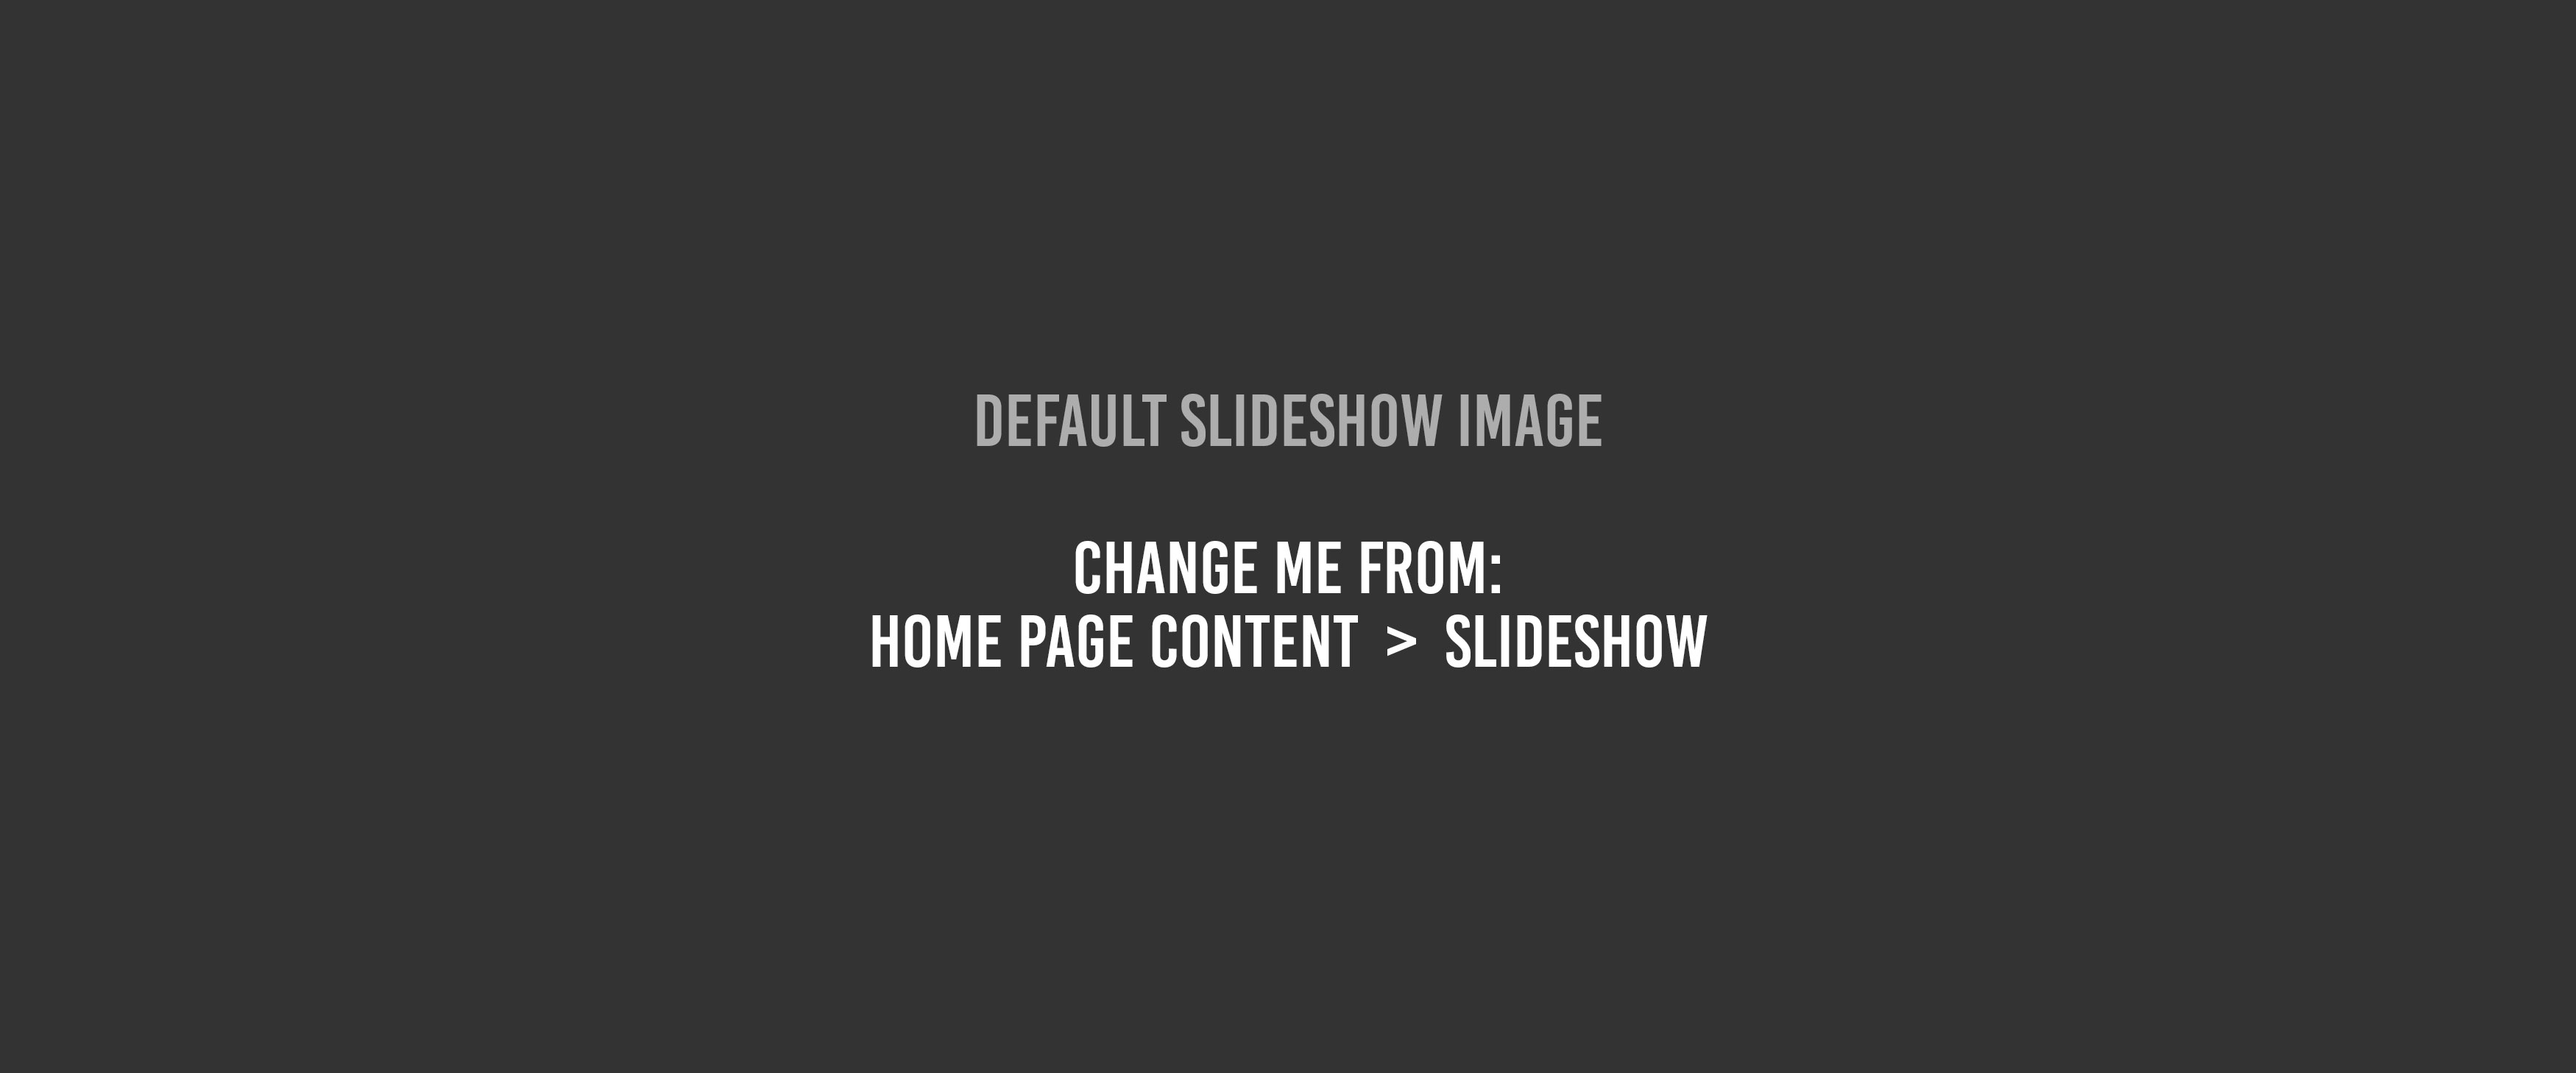
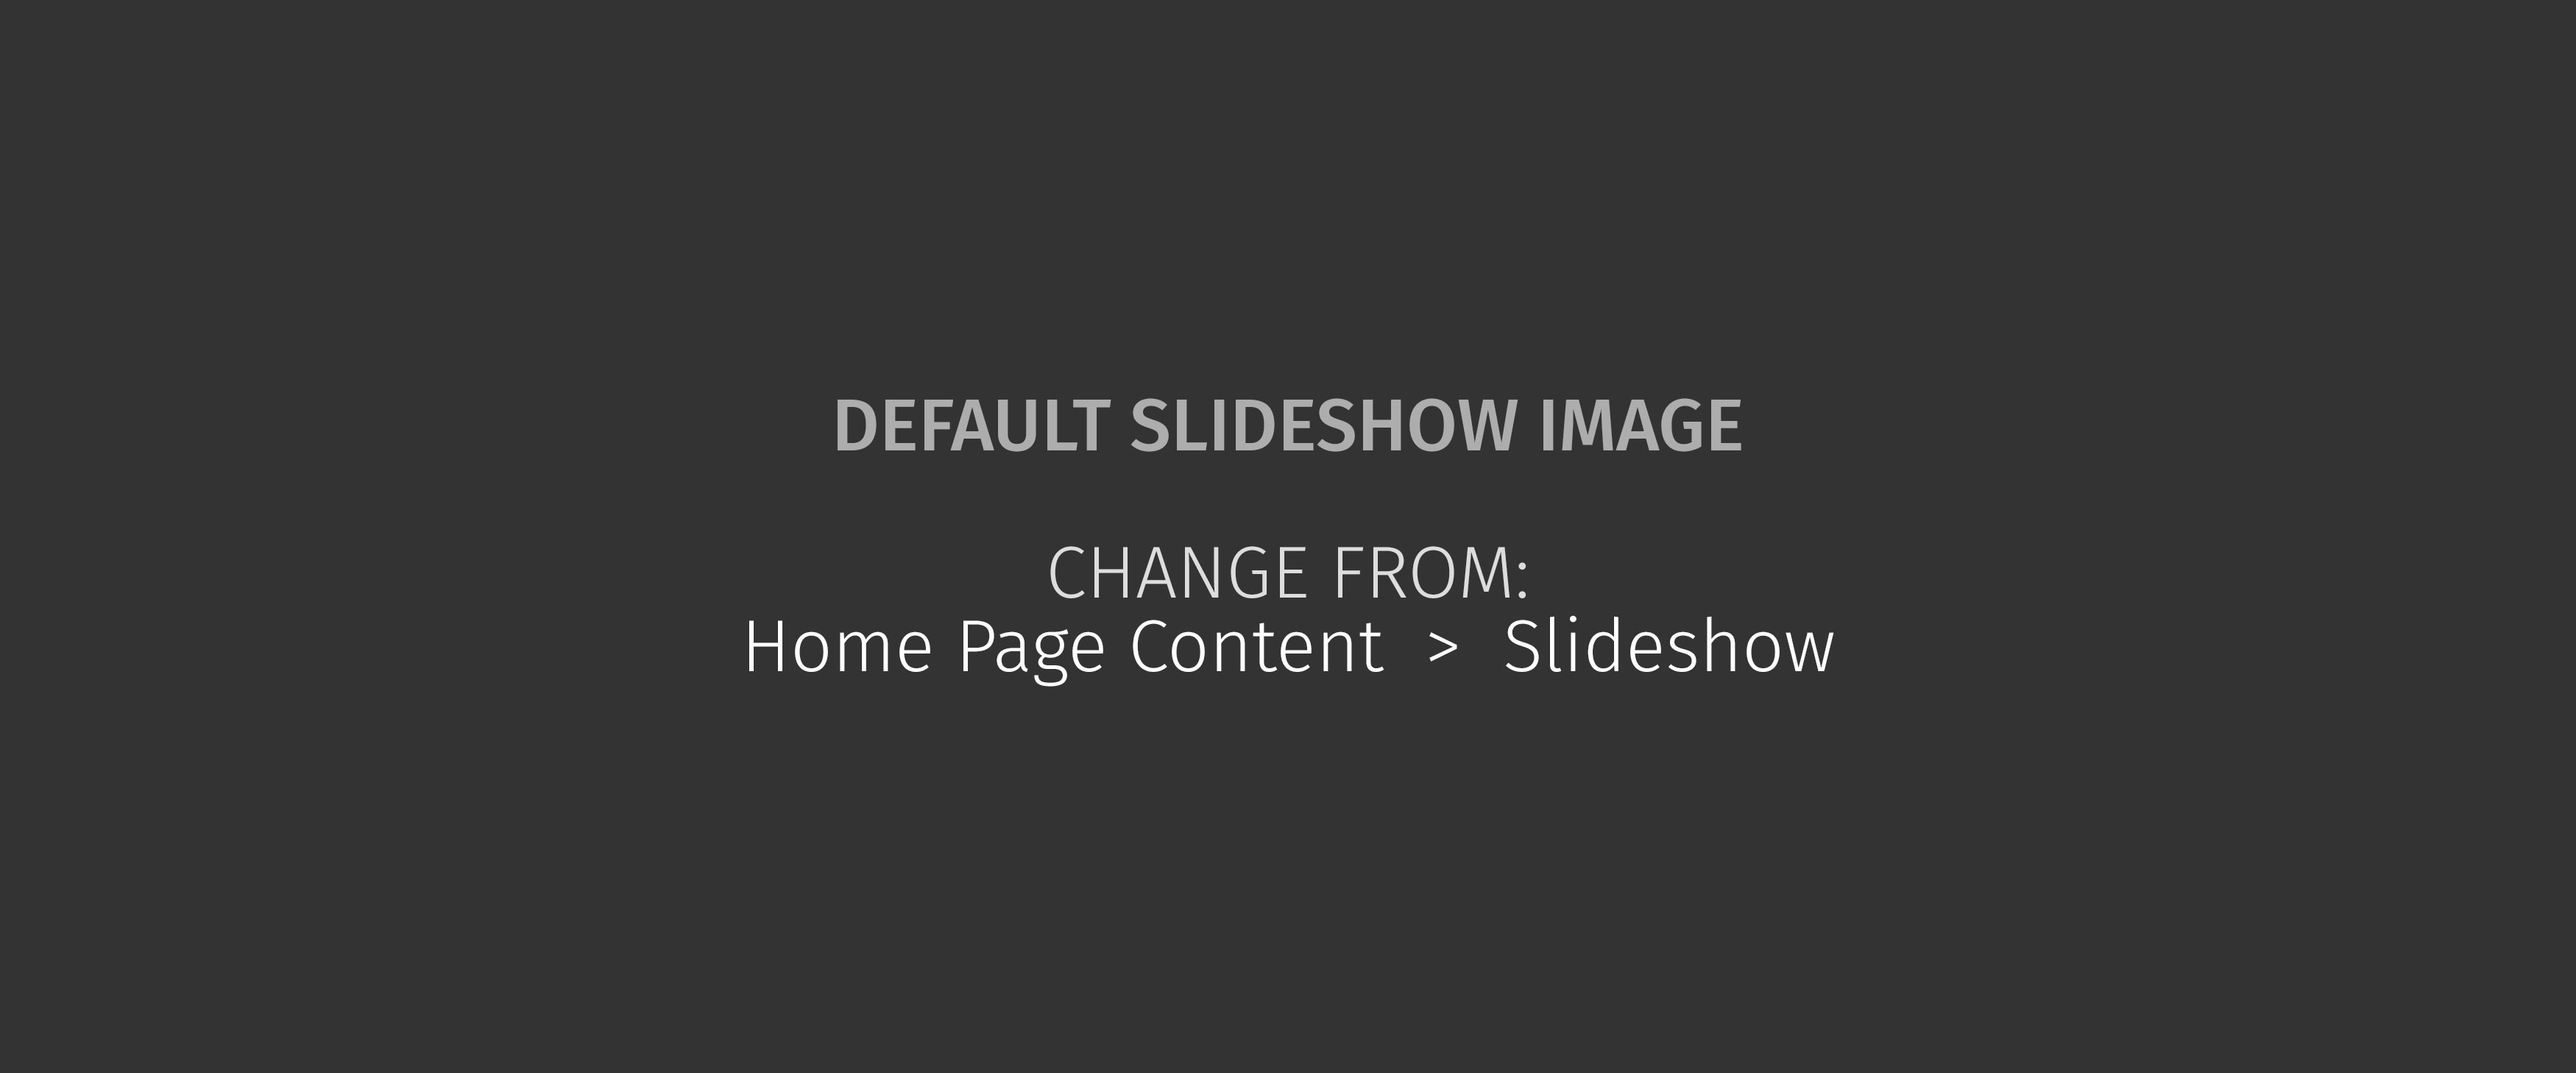
Added modular menu

Changed region(s): [[0.2803, 0.4938, 0.7163, 0.6481], [0.3114, 0.3704, 0.6851, 0.4321]]

diff --git a/assets/css/nonproflite.css b/assets/css/nonproflite.css
@@ -4,4 +4,4 @@
  * @link https://github.com/WildPastry/nonproflite#readme
  * @author Mike Parker (http://www.mikeparker.co.nz/)
  */
-*{border:0;padding:0;margin:0;box-sizing:border-box;text-decoration:none;list-style-type:none;font-family:Fira Sans,sans-serif}body,html{height:100%;color:#2b2b2b}body{font-weight:300!important;display:flex;flex-direction:column}p{margin:0}h1{font-size:2em;letter-spacing:1px}h2,h3,h4,h5{line-height:1.45em}a{color:#fff;transition-duration:.5s}a:hover{color:#f284bc;text-decoration:none}article{-webkit-column-count:2;-moz-column-count:2;column-count:2}.container-fluid{max-width:1450px;flex:1 0 auto}.container-fluid-feature{width:100%}.container-master{display:flex}.row{margin:1em 0}#map{width:100%;height:100%}footer p{color:#fff}footer{flex-shrink:0;margin:0 auto;height:200px;background-color:#2b2b2b;width:100%}.footerWrap,footer{display:flex;align-items:center}.footerWrap{margin-left:15px;margin-right:15px;flex-direction:row;justify-content:space-between}.fullImageWrap{width:100%;height:500px}.fullImage{width:100%;height:100%}
+*{border:0;padding:0;margin:0;box-sizing:border-box;text-decoration:none;list-style-type:none;font-family:Fira Sans,sans-serif}body,html{height:100%;color:#2b2b2b}body{font-weight:300!important;display:flex;flex-direction:column}p{margin:0}h1{font-size:2em;letter-spacing:1px}h2,h3,h4,h5{line-height:1.45em}a{color:#fff;transition-duration:.5s}a:hover{color:#f284bc;text-decoration:none}article{-webkit-column-count:2;-moz-column-count:2;column-count:2}.container-fluid{max-width:1450px;flex:1 0 auto}.container-fluid-feature{width:100%}.container-master{display:flex}.row{margin:1em 0}#map{width:100%;height:100%}footer p{color:#fff}footer{background-color:#b74f87;flex-shrink:0;height:200px;margin:0 auto;max-width:1420px;width:100%}.footerWrap,footer{align-items:center;display:flex}.footerWrap{flex-direction:row;justify-content:space-between}.menuModuleWrap{width:100%;margin-bottom:20px;border-top:5px solid #fff}.menuModuleWrap ul{margin-bottom:0}.menuModule{height:100px;display:flex;flex-direction:row;justify-content:space-between}.menuModule a{text-transform:uppercase;letter-spacing:2px;font-weight:500;font-size:1.4em;color:#fff;padding-bottom:0;padding-top:0;border-bottom:2px solid transparent;border-top:2px solid transparent;transition-duration:.3s}.menuModule a:hover{color:#fff;padding-bottom:5px;padding-top:5px;border-bottom:2px solid #fff;border-top:2px solid #fff}.menuModule li{background:#b74f87;align-items:center;justify-content:center;display:flex;height:100%;text-align:center;width:20%}.fullImgWrap{width:100%;height:500px}.fullImg{width:100%;height:100%}.thumbnailWrap{margin-bottom:20px;width:100%}.thumbnailImg{height:400px}

diff --git a/assets/less/header.less b/assets/less/header.less
@@ -4,3 +4,52 @@
 // imports
 @import 'variables';
 @import 'mixins';
+
+// menu
+.menuModuleWrap {
+  width: 100%;
+  margin-bottom: 20px;
+  border-top: 5px solid @white;
+}
+
+.menuModuleWrap ul {
+  margin-bottom: 0;
+}
+
+.menuModule {
+  height: 100px;
+  display: flex;
+  flex-direction: row;
+  justify-content: space-between;
+}
+
+.menuModule a {
+  text-transform: uppercase;
+  letter-spacing: 2px;
+  font-weight: 500;
+  font-size: 1.4em;
+  color: @white;
+  padding-bottom: 0;
+  padding-top: 0;
+  border-bottom: 2px solid transparent;
+  border-top: 2px solid transparent;
+  transition-duration: 300ms;
+}
+
+.menuModule a:hover {
+  color: @white;
+  padding-bottom: 5px;
+  padding-top: 5px;
+  border-bottom: 2px solid @white;
+  border-top: 2px solid @white;
+}
+
+.menuModule li {
+	background: @purple;
+  align-items: center;
+  justify-content: center;
+  display: flex;
+  height: 100%;
+  text-align: center;
+  width: 20%;
+}

diff --git a/assets/less/footer.less b/assets/less/footer.less
@@ -4,3 +4,30 @@
 // imports
 @import 'variables';
 @import 'mixins';
+
+// footer
+footer p {
+	color: @white;
+}
+
+footer {
+	align-items: center;
+	background-color: @purple;
+	display: flex;
+	flex-shrink: 0;
+	height: 200px;
+	margin: 0 auto;
+	max-width: 1420px;
+	width: 100%;
+	// padding-left: 15px;
+  // padding-right: 15px;
+}
+
+.footerWrap {
+	align-items: center;
+	display: flex;
+	flex-direction: row;
+	justify-content: space-between;
+	// margin-left: 15px;
+	// margin-right: 15px;
+}

diff --git a/assets/less/content.less b/assets/less/content.less
@@ -29,27 +29,3 @@
 	width: 100%;
 	height: 100%;
 }
-
-// footer
-footer p {
-	color: @white;
-}
-
-footer {
-	display: flex;
-	align-items: center;
-	flex-shrink: 0;
-	margin: 0 auto;
-	height: 200px;
-	background-color: @grey;
-	width: 100%;
-}
-
-.footerWrap {
-	margin-left: 15px;
-	margin-right: 15px;
-	display: flex;
-	flex-direction: row;
-	justify-content: space-between;
-	align-items: center;
-}

diff --git a/assets/less/img.less b/assets/less/img.less
@@ -6,12 +6,22 @@
 @import 'mixins';
 
 // feature image
-.fullImageWrap {
+.fullImgWrap {
   width: 100%;
   height: 500px;
 }
 
-.fullImage {
+.fullImg {
   width: 100%;
   height: 100%;
+}
+
+// thumbnail image
+.thumbnailWrap {
+  margin-bottom: 20px;
+  width: 100%;
+}
+
+.thumbnailImg {
+  height: 400px;
 }

diff --git a/inc/templates/content.php b/inc/templates/content.php
@@ -1,0 +1,67 @@
+<?php
+/**
+ * content
+ * @package nonproflite
+ */
+
+// get thumbnail image
+$defaultThumb = get_template_directory_uri() . '/assets/img/default-thumb.jpg';
+$thumbnailImg = wp_get_attachment_url(get_post_thumbnail_id($post->ID));
+
+?>
+
+<?php /* start singular if */ if (is_singular()) : ?>
+
+  <!-- thumbnail image -->
+  <div class="thumbnailWrap">
+    <?php /* start thumbnail if */ if (has_post_thumbnail()) : ?>
+      <?php echo '<div class="thumbnailImg" style="background-image: url(' . $thumbnailImg . ');background-position: center; background-size: cover;  background-repeat: no-repeat;"></div>';
+    else :
+      echo '<div class="thumbnailImg" style="background-image: url(' . $defaultThumb . ');background-position: center; background-size: cover;  background-repeat: no-repeat;"></div>';
+      ?>
+    <?php /* end thumbnail if */ endif; ?>
+  </div> <!-- thumbnailWrap -->
+
+  <!-- title - date - comments -->
+  <div class="row">
+    <div class="col-12">
+      <header class=" ">
+        <h3><?php the_title(); ?></h3>
+        <?php /* start post type if */ if ('post' == get_post_type()) : ?>
+          <div class="postmeta">
+            <div class="post-date"><?php the_date(); ?></div> <!-- post-date -->
+            <div class="post-comment"> <a href="<?php comments_link(); ?>"><?php comments_number(); ?></a></div>
+          </div> <!-- postmeta -->
+        <?php /* end post type if */ endif; ?>
+      </header>
+    </div>
+
+    <div class="col-12">
+      <article>
+        <?php the_content(); ?>
+      </article>
+    </div>
+  </div> <!-- row -->
+
+<?php /* else */ else : ?>
+
+  <div class="col-xs-12 col-sm-6 col-md-6 col-lg-6 col-xl-6">
+    <div class="card">
+      <?php /* start thumbnail if */ if (has_post_thumbnail()) : ?>
+        <?php the_post_thumbnail('thumbnail', ['class' => 'card-img-top img-fluid', 'alt' => 'image from post']) ?>
+      <?php /* end thumbnail if */ endif; ?>
+
+      <div class="card-body">
+        <h5 class="card-title"><?php the_title(); ?></h5>
+        <?php the_excerpt(); ?>
+      </div> <!-- card-body -->
+
+      <div class="card-footer">
+        <a class="btn btn-danger" href="<?php the_permalink(); ?>">View Post</a>
+        <p class="card-text"><small class="text-muted">Posted: <?php the_date('F j, Y'); ?> at
+            <?php the_time('g:i a'); ?></small></p>
+      </div> <!-- card-footer -->
+    </div> <!-- card -->
+  </div> <!-- col -->
+
+<?php /* end singular if */ endif; ?>

diff --git a/index.php b/index.php
@@ -23,7 +23,7 @@ get_header(); ?>
 		</ol>
 
 		<!-- inner slideshow loop -->
-		<div class="carousel-inner fullImageWrap">
+		<div class="carousel-inner fullImgWrap">
 
 			<?php
 			$default_slide = get_template_directory_uri() . '/assets/img/default-slide.jpg';
@@ -38,14 +38,14 @@ get_header(); ?>
 
 				// display loop
 				if ($i == 1) {
-					echo '<div class="carousel-item active fullImage embed-responsive-item" style="background-image: url(' . $featured_slide . ');background-position: center; background-size: cover; background-repeat: no-repeat;"></div>';
+					echo '<div class="carousel-item active fullImg embed-responsive-item" style="background-image: url(' . $featured_slide . ');background-position: center; background-size: cover; background-repeat: no-repeat;"></div>';
 				} else {
-					echo '<div class="carousel-item fullImage embed-responsive-item" style="background-image: url(' . $featured_slide . ');background-position: center; background-size: cover; background-repeat: no-repeat;"></div>';
+					echo '<div class="carousel-item fullImg embed-responsive-item" style="background-image: url(' . $featured_slide . ');background-position: center; background-size: cover; background-repeat: no-repeat;"></div>';
 				}
 			}
 			?>
 
-		</div><!-- inner slideshow -->
+		</div> <!-- inner slideshow -->
 
 		<!-- slideshow controls -->
 		<a class="carousel-control-prev" href="#homePageSlider" role="button" data-slide="prev">
@@ -58,10 +58,14 @@ get_header(); ?>
 		</a>
 	</div>
 
-</div><!-- feature slideshow -->
+</div> <!-- feature slideshow -->
+
+<!-- menu -->
+<?php get_template_part('inc/templates/menu'); ?>
 
 <div class='container-fluid'>
 
+	<!-- custom greeting -->
 	<div class="row">
 		<?php if ($customText == "") : echo '<h1>' . $defaultText . '</h1>';
 		else :

diff --git a/inc/templates/content-none.php b/inc/templates/content-none.php
@@ -1,0 +1,39 @@
+<section class="">
+	<header class="">
+		<h1 class="page-title"><?php _e( 'Nothing Found', 'nonproflite' ); ?></h1>
+	</header> <!-- page-header -->
+
+	<div class="page-content">
+		<?php
+		if ( is_home() && current_user_can( 'publish_posts' ) ) :
+
+			printf(
+				'<p>' . wp_kses(
+					__( 'Ready to publish your first post? <a href="%1$s">Get started here</a>.', 'nonproflite' ),
+					array(
+						'a' => array(
+							'href' => array(),
+						),
+					)
+				) . '</p>',
+				esc_url( admin_url( 'post-new.php' ) )
+			);
+
+		elseif ( is_search() ) :
+			?>
+
+			<p><?php _e( 'Sorry, but nothing matched your search terms. Please try again with some different keywords.', 'nonproflite' ); ?></p>
+			<?php
+			get_search_form();
+
+		else :
+			?>
+
+			<p><?php _e( 'It seems we can&rsquo;t find what you&rsquo;re looking for. Perhaps searching can help.', 'nonproflite' ); ?></p>
+			<?php
+			get_search_form();
+
+		endif;
+		?>
+	</div> <!-- page-content -->
+</section> <!-- no-results -->

diff --git a/functions.php b/functions.php
@@ -31,6 +31,8 @@ require get_template_directory() . '/inc/control/npl-control-sidebar.php';
 // functions –––––––––––––––––––––––––––––––––––––––––––––––––––––––––––––
 // custom fields
 require get_template_directory() . '/inc/functions/npl-custom-fields.php';
+// custom menu
+require get_template_directory() . '/inc/functions/npl-custom-menu.php';
 // custom post types
 require get_template_directory() . '/inc/functions/npl-custom-post-types.php';
 // misc functions

diff --git a/page.php b/page.php
@@ -1,0 +1,29 @@
+<?php
+/**
+ * page
+ * @package nonproflite
+ */
+
+get_header(); ?>
+
+	<!-- main content area -->
+	<section class='main-content-area'>
+
+			<?php  /* start posts if */ if (have_posts()) :
+				while /* start posts while */ (have_posts()) : the_post();
+
+					get_template_part('templates/content');
+
+				/* end posts while */
+				endwhile;
+
+			else :
+
+				get_template_part('templates/content', 'none');
+
+			/* end posts if */
+			endif; ?>
+
+	</section> <!-- main content-area -->
+
+<?php get_footer(); ?>

diff --git a/footer.php b/footer.php
@@ -6,7 +6,7 @@
 
 ?>
 
-</div><!-- master container -->
+</div> <!-- master container -->
 
 <footer class="footer">
   <div class="container-fluid">
@@ -17,7 +17,7 @@
       <p class="">Material &copy; <a href='https://www.chchbullbreedrescue.org.nz/' target='_blank'>CHCH Bull Breed Rescue</a></p>
     </div>
   </div>
-</footer><!-- footer -->
+</footer> <!-- footer -->
 
 <?php wp_footer(); ?>
 </body>

diff --git a/inc/templates/menu.php b/inc/templates/menu.php
@@ -1,0 +1,18 @@
+<?php
+/**
+ * menu
+ * @package nonproflite
+ */
+?>
+
+<!-- menu -->
+<?php
+wp_nav_menu(array(
+  'theme_location' => 'menu_module',
+  'depth' => 2,
+  'container' => 'div',
+  'container_class' => 'menuModuleWrap',
+  'container_id' => 'menuModuleWrap',
+  'menu_class' => 'menuModule',
+));
+?>
